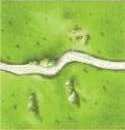
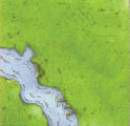
Added river expansion

diff --git a/src/tile.rs b/src/tile.rs
@@ -17,6 +17,7 @@ enum Connection {
     Road,
     Field,
     City,
+    River
 }
 
 impl FromStr for Connection {
@@ -28,6 +29,7 @@ impl FromStr for Connection {
             "Road"  => Ok(Connection::Road),
             "Field"  => Ok(Connection::Field),
             "City"  => Ok(Connection::City),
+            "River"  => Ok(Connection::River),
             _      => Err(()),
         }
     }
@@ -74,17 +76,16 @@ fn spawn_tiles(
     asset_server: Res<AssetServer>,
     types: Res<Vec<Type>>
 ){
-    // let mut tiles: Vec<Vec<Vec<Connection>>> = Vec::new();
     let mut tiles: HashMap<(i32, i32), Vec<Connection>> = HashMap::new();
     let mut rng = thread_rng();
     for i in -SET_RADIUS..SET_RADIUS {
-
         for j in -SET_RADIUS..SET_RADIUS {
             let mut val;
             let mut values_checked = LinkedList::new();
             loop {
                 val = rng.gen_range(0..types.len());
                 while values_checked.contains(&val) {
+                    if values_checked.len() == types.len() { warn!("Impossible: {:?}, {:?}", tiles.get(&(i - 1, j)).unwrap()[1],  tiles.get(&(i, j - 1)).unwrap()[0]) }
                     val = rng.gen_range(0..types.len());
                 }
                 if tiles.contains_key(&(i - 1, j)) &&
